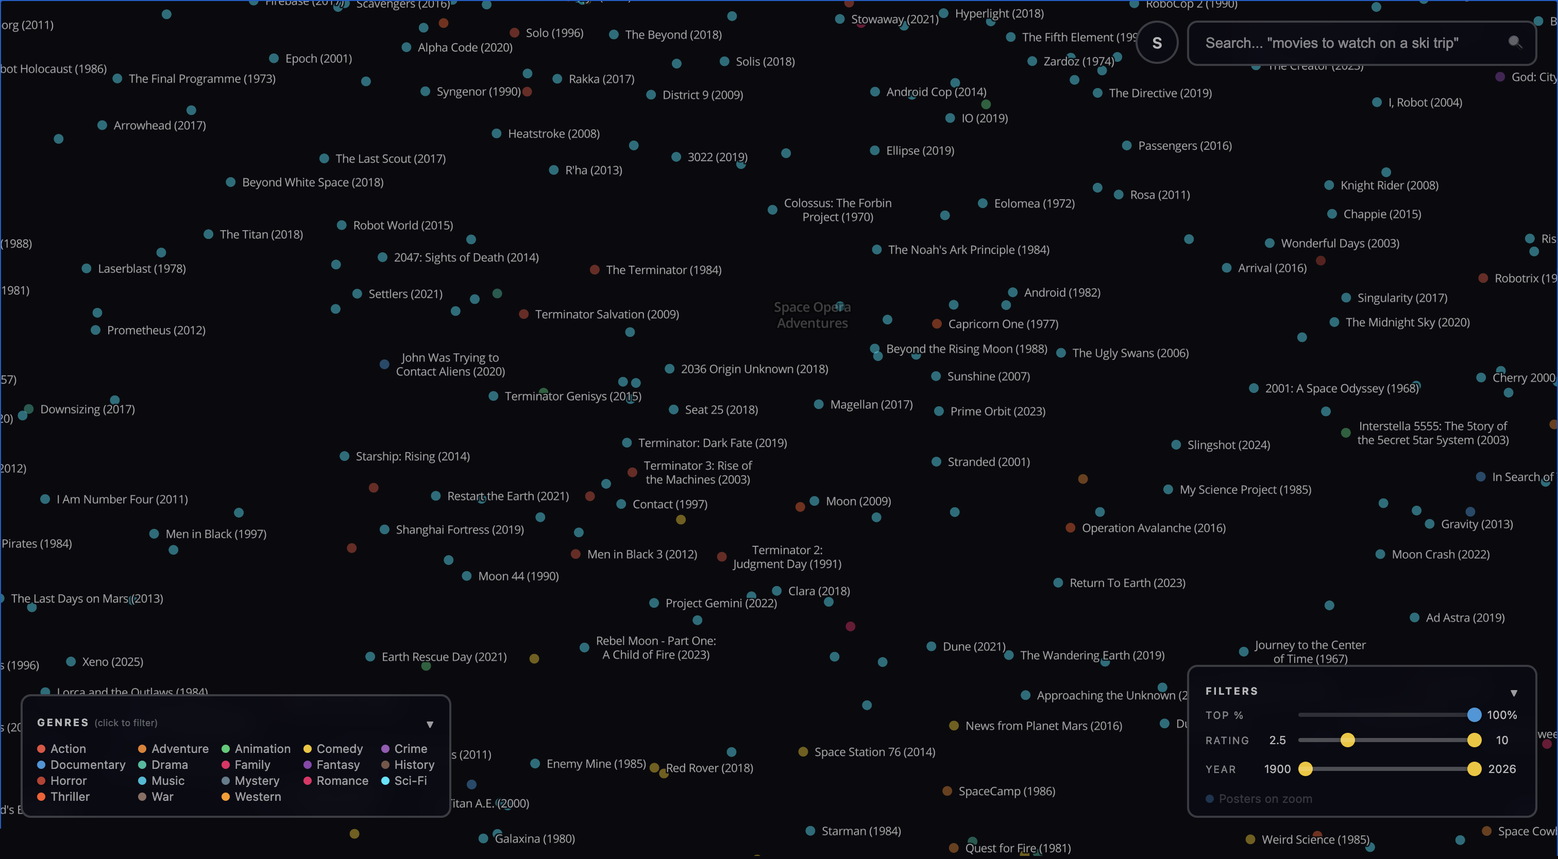
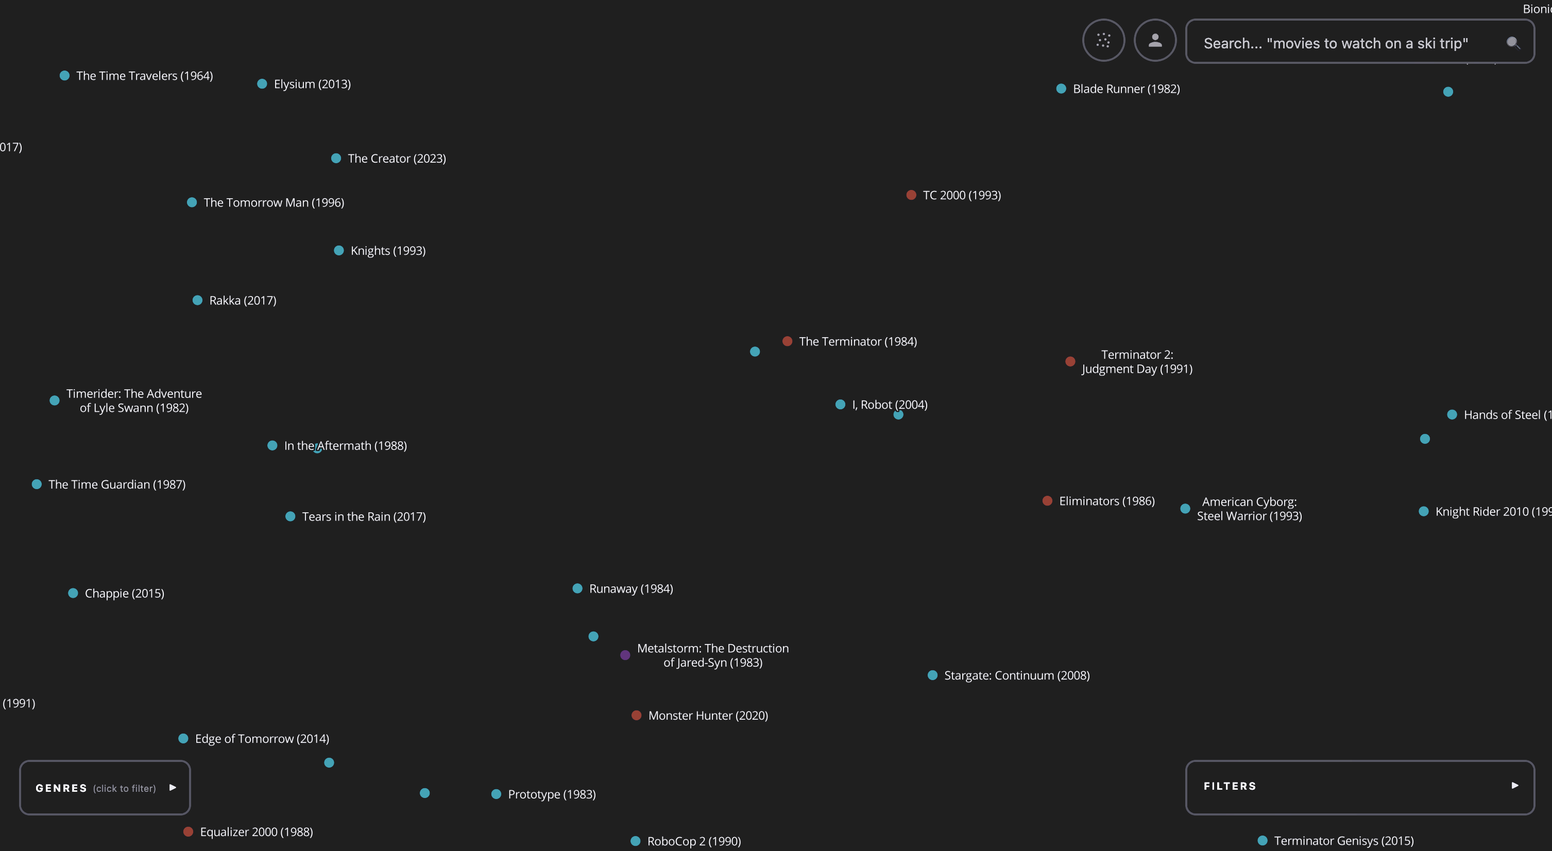
major moviescape improvements

diff --git a/_posts/2026-03-19-moviescape.md b/_posts/2026-03-19-moviescape.md
@@ -1,8 +1,8 @@
 ---
 layout: post
 comments: true
-title:  "Moviescape: Google Maps for all of Cinema"
-excerpt: "We embedded 80k movies into a 2D landscape that users can fly over and explore. Think Google Maps over a UMAP space of all of cinema."
+title:  "Moviescape: Google Maps for Cinema"
+excerpt: "We embedded 80k movies into a 2D landscape that users can fly over and explore. Think Google Maps over a UMAP of all cinema."
 date:   2026-03-19 10:00:00
 mathjax: false
 author: Sam Greydanus
@@ -88,13 +88,18 @@ pre {
 }
 .grid-2x2 .img-expand { width: 100%; }
 .grid-2x2 .img-expand img { width: 100%; display: block; }
+.thecap-sm {
+    font-size: 15px;
+    line-height: 1.45;
+    color: #666;
+}
 </style>
 
 <div class="imgcap_noborder img-expand" style="cursor:zoom-in;" onclick="openOverlay('/assets/moviescape/moviescape_all.png')">
   <img src="/assets/moviescape/moviescape_all.png">
   <button class="fullscreen-btn" title="View fullscreen">&#x26F6;</button>
   <div class="thecap"  style="text-align:left; display:block; margin-left: auto; margin-right: auto; width:95%">
-    80,937 movies embedded into a 2D landscape by thematic and emotional similarity. Each dot is a film, colored by genre. Cluster labels name the regions — South Asian Crime Drama, European Indie Comedy, Superhero &amp; Animation, Japanese Pop Culture. The map is browsable and searchable.
+    80,000 movies embedded into a 2D landscape by thematic and emotional similarity. Each dot is a film, colored by genre. Cluster labels name the regions — European Art Cinema, Character-Driven Indie Drama, East Asian Cinema, Classic Animation &amp; Holiday, South Asian Social Drama, Italian Cinema, Crime &amp; Corruption, and more. The map is browsable and searchable.
   </div>
 </div>
 
@@ -137,7 +142,7 @@ This was a good place to start, but in order to build a better UMAP, we needed t
 
 For example, we want a context vector for *Fight Club* that doesn't put the movie next to movies about "fighting" or "clubs." We want there to be something in the context vector about the unique mood of the movie and, on the theme side -- the subterranean identity crisis that men undergo when trapped in a soft, consumerist society.
 
-To this end, we asked Claude Haiku (via the [Anthropic Message Batches API](https://docs.anthropic.com/en/docs/build-with-claude/batch-processing), at a cost of about $100 total) to fill in these fields for every movie in the dataset:
+To this end, we asked Claude Haiku (via the [Anthropic Message Batches API](https://docs.anthropic.com/en/docs/build-with-claude/batch-processing), at a cost of about $80) to fill in these fields for every movie in the whole dataset:
 
 ```
 Fields:
@@ -145,16 +150,24 @@ Fields:
 - decade: derive from year ("1990s", "2010s", etc.)
 - country: primary production country (short form: "USA", "UK", "France", etc.)
 - language: full name from the code provided
-- genre: exactly ONE from: {', '.join(GENRES)}
+- genre: exactly ONE from: {Action, Adventure, Animation, Comedy, Crime,
+    Documentary, Drama, Family, Fantasy, History, Horror, Music, Mystery,
+    Romance, Sci-Fi, Thriller, War, Western}
 - subgenres: 2-3 specific subgenre terms (e.g. "neo-noir", "body horror", "mumblecore")
 - cast: top 7 cast in billing order from YOUR knowledge. Empty list if unknown.
 
 Deep fields — write for an embedding model, not an audience. Semantic precision over style:
 - plot: 1-2 sentences. Concrete events, setting, social milieu, central conflict.
 - mood: 1-2 sentences. Visual/sonic texture. Name the filmmaking tradition.
-- what_its_really_about: 2 sentences. Thematic core — philosophical tensions, not plot. Use analytical vocabulary an embedding model can match across films.
-- the_experience: 1-2 sentences. Specific emotional/cognitive effect on viewer. Name the feeling precisely.
-- who_loves_it: 1 sentence. Audience archetypes by relationship to themes, not demographics.
+- what_its_really_about: 2 sentences. Thematic core — philosophical tensions, not plot.
+    Use analytical vocabulary an embedding model can match across films.
+- the_experience: 1-2 sentences. Specific emotional/cognitive effect on viewer.
+    Name the feeling precisely.
+
+Geographic fields (NEVER null — use 0.0 only in worst-case):
+- setting_lat/setting_lng: primary setting location of the film.
+    For fantastical settings, use the most relevant real-world location.
+- origin_lat/origin_lng: where the film was primarily produced (studio/filming location).
 ```
 
 For Fight Club, the result looked like this:
@@ -162,30 +175,28 @@ For Fight Club, the result looked like this:
 
 ```json
 {
-  "title": "Fight Club",
-  "year": 1999,
-  "genre": "Thriller",
-  "subgenres": ["psychological thriller", "dark satire", "cult film"],
-  "plot": "An insomniac office worker and a charismatic soap salesman form
-    an underground fight club that metastasizes into an anarchist movement,
-    set in the corporate wastelands of late-90s urban America.",
-  "mood": "Hyperkinetic editing, industrial noise score, subliminal image
-    insertions. Late-90s corporate-critique cinema rejecting classical
-    continuity for punk montage.",
-  "what_its_really_about": "Masculine identity crisis under late capitalism —
-    the construction of selfhood through consumption, labor alienation, and
-    the fantasy that physical violence can restore authentic agency. The film
-    stages the contradiction between transcendence through destruction and
-    the recognition that revolutionary violence reproduces the systems it
-    opposes.",
-  "the_experience": "Visceral exhilaration followed by moral vertigo. The
-    film seduces through style and mythology, then ruptures that seduction
-    through formal disruption and narrative betrayal, leaving the viewer
-    complicit in both the fantasy's appeal and its bankruptcy.",
-  "who_loves_it": "Viewers experiencing alienation within corporate
-    structures, those questioning whether counterculture reproduces the
-    domination it opposes, and anyone drawn to films that make their own
-    formal manipulations part of the thematic content."
+  "decade": "1990s",
+  "cast": ["Brad Pitt", "Edward Norton", "Helena Bonham Carter",
+    "Meat Loaf", "Jared Leto", "Zach Grenier", "Holt McCallany"],
+  "country": "USA",
+  "language": "English",
+  "genre": "Drama",
+  "subgenres": ["psychological thriller", "dark satire", "neo-noir"],
+  "plot": "A depressed office worker forms an underground fight club with
+    a charismatic soap salesman, escalating from bare-knuckle brawling into
+    anti-capitalist domestic terrorism across late-1990s urban America.",
+  "mood": "Grimy fluorescent lighting and subliminal flash frames create a
+    dissociative fever dream. Dust Brothers electronic score pulses
+    underneath Fincher's precise, clinical compositions.",
+  "what_its_really_about": "The crisis of masculinity in consumer capitalism
+    — how identity dissolves when defined solely by possessions and
+    white-collar labor. Explores whether destruction is creation's
+    prerequisite or its narcissistic shadow.",
+  "the_experience": "Mounting paranoia and anarchic glee that curdles into
+    genuine dread. The twist reframes everything, producing the vertiginous
+    sensation of having been complicit in your own deception.",
+  "setting_lat": 40.7128, "setting_lng": -74.006,
+  "origin_lat": 34.0522, "origin_lng": -118.2437
 }
 ```
 
@@ -200,28 +211,27 @@ Directed by {director}, starring {cast}.
 {plot} {mood}
 What it's really about: {what_its_really_about}
 The experience: {the_experience}
-Audience: {who_loves_it}
 ```
 
-The full embedding matrix is 80,937 × 512 values, stored as float16 to halve memory (from ~195MB to ~79MB). At runtime, the server loads this matrix into memory once at startup and uses a numpy dot product for search (cosine similarity against the full matrix of movie vectors).
+The full embedding matrix is 80,000 × 512 values, stored as float16 to halve memory (from ~195MB to ~79MB). At runtime, the server loads this matrix into memory once at startup and uses a numpy dot product for search (cosine similarity against the full matrix of movie vectors).
 
 **UMAP dimensionality reduction.** The last step of the data pipeline involves projecting the 512-dimensional context vectors to 2D using the [UMAP](https://umap-learn.readthedocs.io/) (Uniform Manifold Approximation and Projection) algorithm. The result is an approximation of the high-dimensional space that preserves some of the global and local structure while making the overall point cloud viewable in two dimensions.
 
 In order to make the UMAP zoomable and interactive, we decided to plot it on a full-viewport dark Mapbox map. Mapbox comes with nice zoom properties, thumbnail support, and it's relatively easy to embed coordinates in links. So we chose to plot our UMAP as if each movie coordinate were literally a position on earth with latitude/longitude coordinates. To this end, we scaled the 2D coordinates to latitude/longitude ranges of -30° to +30° lng and -20° to +20° lat so that Mapbox can render them at a reasonable scale.
 
-Running UMAP on 80,937 × 512 vectors takes less than 10 minutes on a laptop. After we got our 2D coordinates, we ran a two-level hierarchical k-means clustering on the points, yielding about 12 large-scale clusters and 80 sub-regions. Then we drew about 20 random samples from each of these regions and used Haiku to name each cluster based on that random sample (eg "French Art House", "Slasher Horror", "90s Action"). These labels appear at different zoom levels and are meant to help orient the reader.
+Running UMAP on 80,000 × 512 vectors takes less than 10 minutes on a laptop. After we got our 2D coordinates, we ran a two-level hierarchical k-means clustering on the points, yielding about 12 large-scale clusters and 80 sub-regions. Then we drew about 20 random samples from each of these regions and used Haiku to name each cluster based on that random sample (eg "French Art House", "Slasher Horror", "90s Action"). These labels appear at different zoom levels and are meant to help orient the reader.
 
 **Final result.** The final result is Google Maps for all movies. It is a dark map full of dots, each corresponding to a different movie. The dots are colored by genre and filterable by IMDB rating, year made, and popularity (top 10%, 50%, etc). The user can also search the corpus of movies with a search bar, and when this happens the dots are all made partially transparent except for the top 200 results, which are rendered with a glow effect. The glow color varies from white to yellow to red to cyan to dark blue, where lighter colors represent higher ranks. Thus the regions of the map with the highest density of relevant results glow white or yellow while other parts of the map look dark. The result looks like a milky way with different densities and brightnesses of stars and is quite beautiful to pan over and explore.
 
 <div class="imgcap_noborder img-expand" style="cursor:zoom-in;" onclick="openOverlay('/assets/moviescape/search.png')">
   <img src="/assets/moviescape/search.png">
   <button class="fullscreen-btn" title="View fullscreen">&#x26F6;</button>
-  <div class="thecap"  style="text-align:left; display:block; margin-left: auto; margin-right: auto; width:95%">
-    A search for "movies to watch on a rainy day." Matching films glow across the map in a diffuse scatter — <i>Moonlit Winter</i>, <i>Little Amelie</i>, <i>My Rainy Days</i>, <i>Rain</i> — spanning drama, romance, and documentary. The detail popup shows <i>Rain</i>, a documentary about Amsterdam in rainfall. The search embeds the query with the same model used for the movies and computes cosine similarity against all 80,937 films.
+  <div class="thecap thecap-sm"  style="text-align:left; display:block; margin-left: auto; margin-right: auto; width:95%">
+    A search for "movies to recommend to an 18 year old who is interested in physics and history." The top results glow on the map and are ranked in the sidebar: <i>Oppenheimer</i>, <i>A Brief History of Time</i>, ... <i>Fat Man and Little Boy</i>. The results span biopics, documentaries, and sci-fi, all united by physics and history rather than genre. The search embeds the query with the same model used for the movies and computes cosine similarity against all 80,000 films.
   </div>
 </div>
 
-The whole application, data loading, API endpoints, search, and the entire frontend,  is a single Python file of about 930 lines, deployed as a [Tidepool](https://tidepool.sh) pod.
+The whole application (data loading, API endpoints, search, and the entire frontend) is about 2,000 lines of Python, deployed as a [Tidepool](https://tidepool.sh) pod.
 
 ## Genre clusters
 
@@ -233,41 +243,61 @@ Zooming in reveals structure that no genre taxonomy would predict. Here are four
 
 <div class="grid-2x2">
   <div class="img-expand">
-    <img src="/assets/moviescape/pan.png">
-    <button class="fullscreen-btn" onclick="openOverlay('/assets/moviescape/pan.png')" title="View fullscreen">&#x26F6;</button>
-  </div>
-  <div class="img-expand">
-    <img src="/assets/moviescape/wwe.png">
-    <button class="fullscreen-btn" onclick="openOverlay('/assets/moviescape/wwe.png')" title="View fullscreen">&#x26F6;</button>
-  </div>
-  <div class="img-expand">
     <img src="/assets/moviescape/scooby.png">
     <button class="fullscreen-btn" onclick="openOverlay('/assets/moviescape/scooby.png')" title="View fullscreen">&#x26F6;</button>
   </div>
   <div class="img-expand">
-    <img src="/assets/moviescape/se-asian.png">
-    <button class="fullscreen-btn" onclick="openOverlay('/assets/moviescape/se-asian.png')" title="View fullscreen">&#x26F6;</button>
+    <img src="/assets/moviescape/tintin.png">
+    <button class="fullscreen-btn" onclick="openOverlay('/assets/moviescape/tintin.png')" title="View fullscreen">&#x26F6;</button>
+  </div>
+  <div class="img-expand">
+    <img src="/assets/moviescape/comedy.png">
+    <button class="fullscreen-btn" onclick="openOverlay('/assets/moviescape/comedy.png')" title="View fullscreen">&#x26F6;</button>
+  </div>
+  <div class="img-expand">
+    <img src="/assets/moviescape/martial_arts.png">
+    <button class="fullscreen-btn" onclick="openOverlay('/assets/moviescape/martial_arts.png')" title="View fullscreen">&#x26F6;</button>
   </div>
 </div>
 <div style="margin-bottom:20px;">
-  <div class="thecap"  style="text-align:left; display:block; margin-left: auto; margin-right: auto; width:95%">
-    Four genre clusters. <b>Top left:</b> A search for "Peter Pan" reveals a tight cluster of adaptations spanning 70 years. The detailed popup for <i>Hook</i> shows Haiku's theme analysis. <b>Top right:</b> Professional wrestling events form their own thin island. <b>Bottom left:</b> Scooby-Doo and friends - dozens of direct-to-video animated mysteries cluster together, surrounded by Strawberry Shortcake and other children's franchise films. <b>Bottom right:</b> South Asian cinema forms a dense, richly structured island off the main continent, with its own internal geography of historical epics, crime dramas, and romantic comedies.
+  <div class="thecap thecap-sm"  style="text-align:left; display:block; margin-left: auto; margin-right: auto; width:95%">
+    <b>Four genre clusters.</b> <b>Top left:</b> The Scooby-Doo region with dozens of direct-to-video animated mysteries cluster together, from <i>Scooby Goes Hollywood</i> (1979) to <i>Scoob!</i> (2020). Surrounding them are other children's franchise films: <i>The Powerpuff Girls</i>, <i>Doug's 1st Movie</i>, and <i>Whopass Stew</i>. Simpsons specials like <i>The Simpsons in Plusaversary</i> and <i>Maggie Simpson in "The Longest Daycare"</i> sit nearby. Many people know of one or two Scooby-Doo movies but have not heard of all the others — a person who likes Scooby-Doo can zoom in on this little region and see how the lesser-known titles relate to the better-known ones. <b>Top right:</b> The Tintin cluster — all the Tintin films end up as neighbors even though they span decades and different animation styles, from <i>The Calculus Affair</i> (1964) to <i>Tintin and I</i> (2004) and <i>Hergé: In the Shadow of Tintin</i> (2016). The popup for <i>The Calculus Affair</i> shows how Haiku characterizes its themes — Cold War espionage and scientific knowledge as geopolitical commodity — which is what makes it land near other spy-adjacent adventure films rather than generic animation. <b>Bottom left:</b> The comedy region and <b>bottom right:</b> the martial arts cluster show the embedding working at two different scales. Zoomed out, comedy specials and roasts form a visible region within the broader Performance &amp; Achievement area — the popup for <i>Jonas Brothers Family Roast</i> shows Haiku's analysis of celebrity vulnerability and performative self-deprecation. Zoomed in, Hong Kong martial arts films cluster tightly within East Asian Cinema. The popup for <i>The Way of the Dragon</i> (1972) shows how Haiku frames Bruce Lee's film: cultural identity under globalization, a Hong Kong hero navigating Western colonial systems through the only language that transcends borders — physical dominance.
   </div>
 </div>
 
-The WWE cluster is interesting because the movies themselves don't have a TMDb genre tag. Some are classified as "Action", others as "Drama" or "Documentary." It was the enrichment step that produced the semantic details needed to produce context vectors with enough similarity to create this little island.
+**Globe view.** Moviescape also has a globe view that plots each movie at the real-world location where it is set or was filmed. This turns the thematic map into a geographic one: you can explore what movies were made in a given city or region and see how cinema clusters around the world.
 
-The Scooby-Doo region is also fun because many people know of one or two Scooby-Doo movies, but have not heard of all the others. The fact that a person who likes Scooby-Doo can zoom in on this little region and see how the lesser-known titles relate to the better-known ones shows that the map is working more or less as intended.
-
-The South Asian island in the bottom right corner isn't really an island at all, it's more of an Australia-size continent. It has its own internal structure. There are historical films (*Gautamiputra Satakarni*), Bollywood romances (*Dilwale Dulhania Le Jayenge* etc), and Tamil action films (*Viduthalai: Part I*) each in their own clusters.
+<div class="grid-2x2">
+  <div class="img-expand">
+    <img src="/assets/moviescape/hawaii.png">
+    <button class="fullscreen-btn" onclick="openOverlay('/assets/moviescape/hawaii.png')" title="View fullscreen">&#x26F6;</button>
+  </div>
+  <div class="img-expand">
+    <img src="/assets/moviescape/lima.png">
+    <button class="fullscreen-btn" onclick="openOverlay('/assets/moviescape/lima.png')" title="View fullscreen">&#x26F6;</button>
+  </div>
+  <div class="img-expand">
+    <img src="/assets/moviescape/paris_best.png">
+    <button class="fullscreen-btn" onclick="openOverlay('/assets/moviescape/paris_best.png')" title="View fullscreen">&#x26F6;</button>
+  </div>
+  <div class="img-expand">
+    <img src="/assets/moviescape/mumbai_best.png">
+    <button class="fullscreen-btn" onclick="openOverlay('/assets/moviescape/mumbai_best.png')" title="View fullscreen">&#x26F6;</button>
+  </div>
+</div>
+<div style="margin-bottom:20px;">
+  <div class="thecap thecap-sm"  style="text-align:left; display:block; margin-left: auto; margin-right: auto; width:95%">
+    <b>Globe view:</b> movies plotted at real-world locations. A small amount of jitter is applied around cities so that titles don't overlap too much. <b>Top left:</b> Movies set in Hawaii. WWII films like <i>Tora! Tora! Tora!</i>, <i>1941</i>, and <i>December 7th</i> cluster densely around Pearl Harbor on Oahu, while surf films like <i>Take Every Wave: The Life of Laird Hamilton</i>, <i>Race the Sun</i>, and <i>Rip Girls</i> scatter across Maui and the Big Island. <i>Molokai: The Story of Father Damien</i> sits on its namesake island; <i>Aloha</i> (2015) floats off on its own. <b>Top right:</b> Movies set in and around Lima, Peru — a sparse but varied scatter ranging from <i>The Plague</i> (1992) and <i>Night Flight</i> (1933) in the north to <i>The Milk of Sorrow</i> (2009) and <i>State of Siege</i> (1972) along the coast. Also present: <i>Paddington in Peru</i> (2024), <i>I Love Peru</i> (2025), and the Peruvian classic <i>The City and the Dogs</i> (1985). <b>Bottom left:</b> The top movies filmed in Paris, filtered to pre-2000 titles — a constellation of French cinema's golden age. <i>The Two Orphans</i> (1933), <i>The Wages of Fear</i> (1953), <i>Eyes Without a Face</i> (1960), <i>Le Trou</i> (1960), <i>La Chinoise</i> (1967), <i>The Rules of the Game</i> (1939), and <i>Hiroshima Mon Amour</i> (1959) all appear. <i>The Passion of Joan of Arc</i> (1928) and <i>Grand Illusion</i> (1937) sit nearby. <b>Bottom right:</b> The top 1% of movies filmed in Mumbai — spanning seven decades of Indian cinema from <i>Aan</i> (1952) to <i>All We Imagine as Light</i> (2024). The density is remarkable: <i>Gangs of Wasseypur</i>, <i>Tumbbad</i>, <i>Sholay</i>, <i>Devdas</i>, <i>Mother India</i> (1957), <i>Slumdog Millionaire</i>, and <i>Namak Haraam</i> (1973) all cluster along the coast. The popup for <i>Namak Haraam</i> shows Haiku's theme analysis: class solidarity against personal ambition, the question of whether friendship can survive the divide between inherited privilege and lived material deprivation.
+  </div>
+</div>
 
 **Discovering new films.** These clusters show the embedding working at medium zoom. But the map is most useful at close zoom, where you can discover individual films you might never have found otherwise.
 
 <div class="imgcap_noborder img-expand" style="cursor:zoom-in;" onclick="openOverlay('/assets/moviescape/terminator.png')">
   <img src="/assets/moviescape/terminator.png">
   <button class="fullscreen-btn" title="View fullscreen">&#x26F6;</button>
-  <div class="thecap"  style="text-align:left; display:block; margin-left: auto; margin-right: auto; width:95%">
-    The neighborhood around the Terminator franchise. Zoomed in enough to see individual titles. Neighbors include <i>RoboCop</i>, <i>The Matrix</i>, <i>Blade Runner</i>, <i>Ex Machina</i>, <i>I, Robot</i>, and <i>A.I. Artificial Intelligence</i> — all films about the boundary between human and machine consciousness. But also less obvious neighbors like <i>Upgrade</i> (2018) and <i>Automata</i> (2014) that share the same themes.
+  <div class="thecap thecap-sm"  style="text-align:left; display:block; margin-left: auto; margin-right: auto; width:95%">
+    <b>Discovering new films.</b> The neighborhood around the Terminator franchise. Zoomed in enough to see individual titles. Neighbors include <i>RoboCop</i>, <i>The Matrix</i>, <i>Blade Runner</i>, <i>Ex Machina</i>, <i>I, Robot</i>, and <i>A.I. Artificial Intelligence</i> — all films about the boundary between human and machine consciousness. But also less obvious neighbors like <i>Upgrade</i> (2018) and <i>Automata</i> (2014) that share the same themes.
   </div>
 </div>
 
@@ -279,8 +309,6 @@ It's important to note that this map is showing you something different from "pe
 
 Most of our information today is consumed as part of endless social media scrolling, search result scrolling, or AI chat scrolling. Scrolling is the opposite of exploring a map. It causes us to over-index on the top few elements of a Pareto distribution while missing the long tail. And while the top few elements can indeed be interesting, over a long timeframe this approach to information consumption will homogenize our information diets and cause the long tail of information -- where truly unique and interesting elements live -- to collapse.
 
-I have long wished that information on the internet from movies, to books, to music, to websites, to really any other data modality were spatially organized. We humans have strong spatial "software" in the sense that we are better at remembering and manipulating information when it is associated with a specific place. Look into, for example, memory palaces and the [Method of loci](https://en.wikipedia.org/wiki/Method_of_loci). Interfaces like Moviescape lean into this: they let the user examine a corpus from a bird's eye view, organize it spatially, and then zoom into the unique regions that hold the greatest interest and appeal. Through spatial layouts like Moviescape we may be able to use AI to bring more signal to the internet rather than less.
-
-<!-- COMMENTED OUT: Borges' library contained every book ever written, but no catalogue. The librarians wandered for lifetimes, finding only gibberish. Moviescape is a small attempt at that missing catalogue — not for books, but for films. And unlike Borges' librarians, we have AI to help us build it. -->
+I have long wished that information on the internet from movies, to books, to music, to websites, to really any other data modality were spatially organized. We humans have strong spatial "software" in the sense that we are better at remembering and manipulating information when it is associated with a specific place. Look into, for example, memory palaces and the [Method of loci](https://en.wikipedia.org/wiki/Method_of_loci). Interfaces like Moviescape take advantage of these spatial intuitions: they let the user examine a corpus from a bird's eye view, organize it spatially, and then zoom into the unique regions that hold the greatest interest and appeal. I am optimistic that this makes for a fundamentally better and more intuitive user experience.
 
 Moviescape is live at [moviescape.site](https://moviescape.site). The code is on [GitHub](https://github.com/greydanus/tidepool/tree/main/moviescape). This project was built with [Tidepool](https://tidepool.sh).
